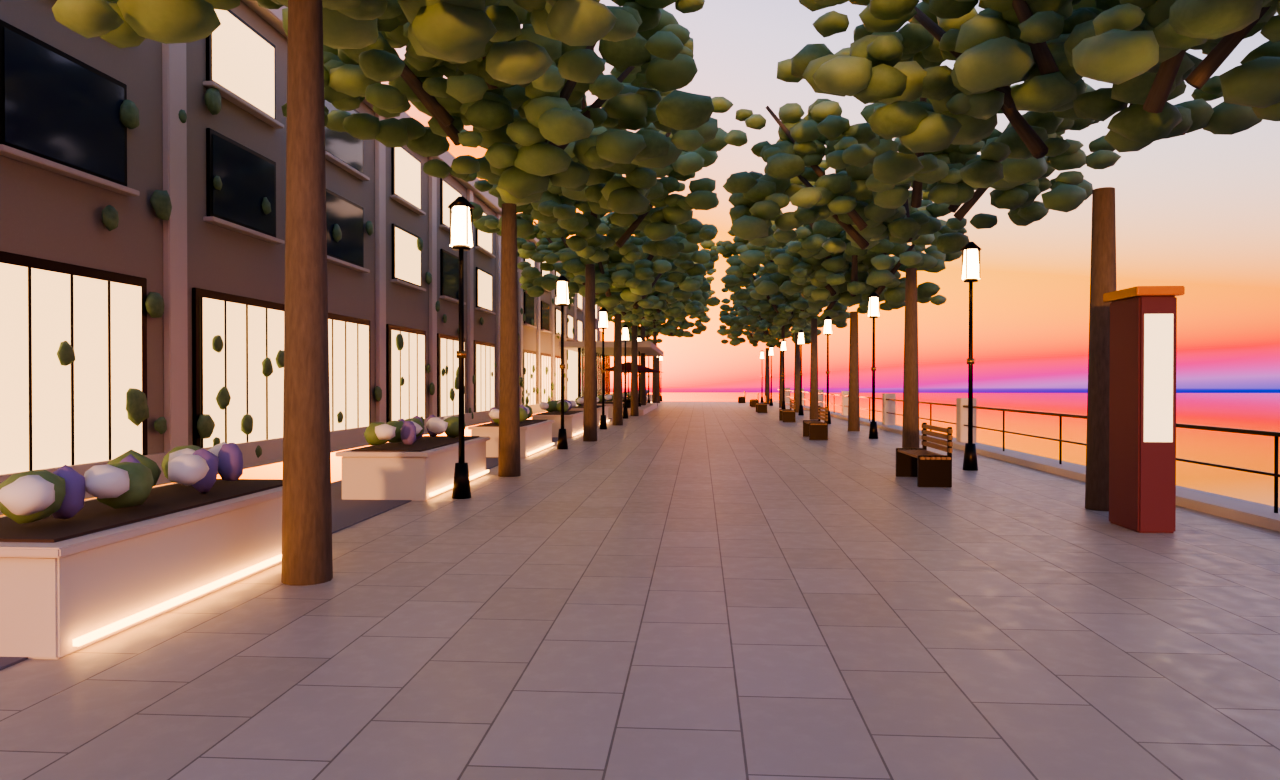
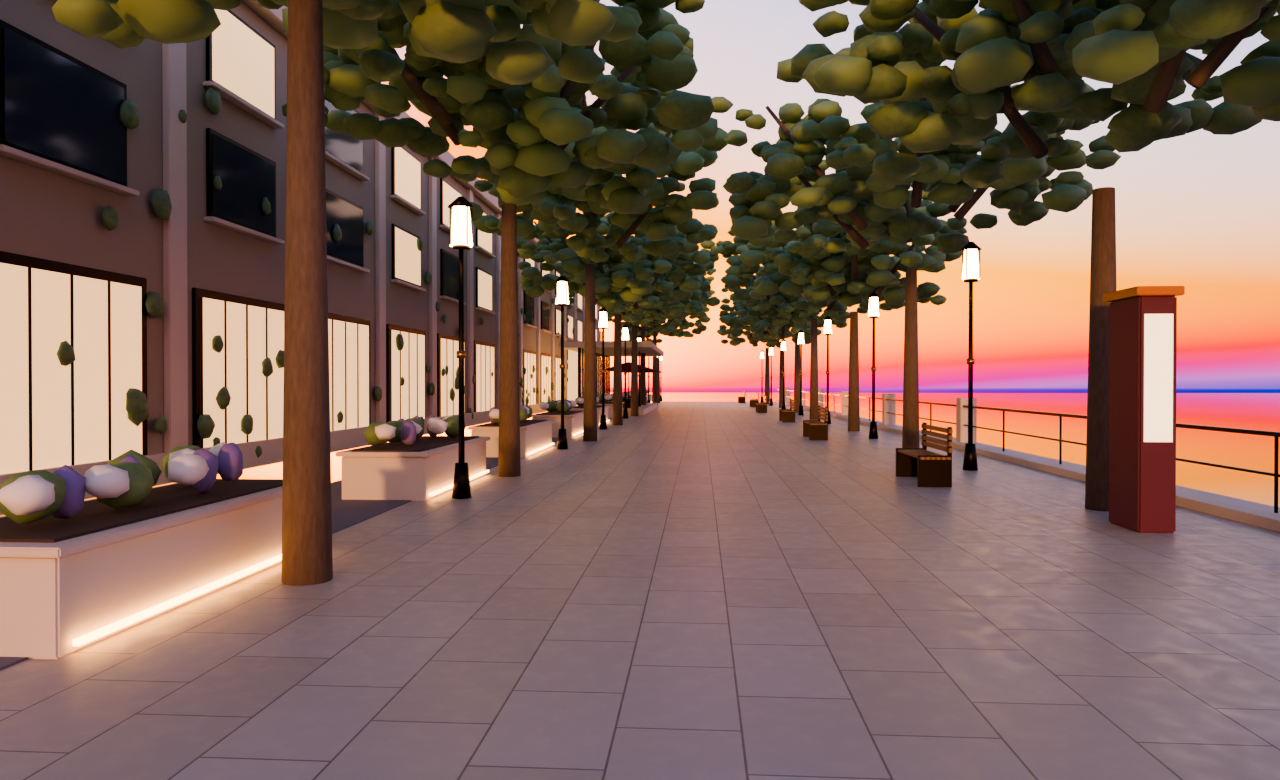
WIP: contact-AO strips raised above ground layers (y 0.07, offset -10); Blender s15 master v4 render
Claude-Session: https://claude.ai/code/session_017ZtboRbFUCo4FCo9fUW3pH

diff --git a/src/street/Street.jsx b/src/street/Street.jsx
@@ -34,7 +34,7 @@ function makeMaterials() {
     slab: std({ map: T.slabTex(), bumpMap: T.slabTex(), bumpScale: 1.2, ...off(1) }), sett: std({ map: T.settTex(), bumpMap: T.settTex(), bumpScale: 2.2, ...off(1) }), road: std({ map: T.asphaltTex(), roughness: 0.96, ...off(1) }), gravel: std({ map: T.gravelTex(), roughness: 1, ...off(1) }),
     slab2: std({ map: T.slabTex(), ...off(2) }), sett2: std({ map: T.settTex(), ...off(2) }), road2: std({ map: T.asphaltTex(), roughness: 0.96, ...off(2) }), gravel2: std({ map: T.gravelTex(), roughness: 1, ...off(2) }),
     paint: std({ roughness: 0.9, ...off(3) }),
-    ao: new THREE.MeshBasicMaterial({ map: T.aoTex(), color: '#000000', transparent: true, opacity: 0.34, depthWrite: false, side: THREE.DoubleSide, polygonOffset: true, polygonOffsetFactor: -4, polygonOffsetUnits: -4 }),
+    ao: new THREE.MeshBasicMaterial({ map: T.aoTex(), color: '#000000', transparent: true, opacity: 0.34, depthWrite: false, side: THREE.DoubleSide, polygonOffset: true, polygonOffsetFactor: -10, polygonOffsetUnits: -10 }),
   }
   for (const k of ['slab', 'sett', 'road', 'gravel', 'slab2', 'sett2', 'road2', 'gravel2', 'grass']) { M[k].map.repeat.set(1, 1) }
   for (const k of ['slab', 'sett', 'road', 'gravel', 'slab2', 'sett2', 'road2', 'gravel2']) applyWet(M[k])       // rain: darker, glossier, puddles

diff --git a/src/street/buildings.js b/src/street/buildings.js
@@ -318,7 +318,7 @@ function shopInterior(ch, F, x0, x1, y0, y1) {
 const W = (F, x, y, z) => [F.x + x * F.c + z * F.s, F.y + y, F.z - x * F.s + z * F.c]
 const dirW = (F) => [F.s, 0, F.c]
 // Baked-style ambient-occlusion contact strip on the ground along a façade/planter base (static, neutral, day/night-safe; Bible/Directive §3). Local z>0 is outward.
-export function aoStrip(ch, F, x0, x1, depth, z0 = 0, y = 0.03) {
+export function aoStrip(ch, F, x0, x1, depth, z0 = 0, y = 0.07) {
   ch.acc('ao').quad(W(F, x0, y, z0), W(F, x1, y, z0), W(F, x1, y, z0 + depth), W(F, x0, y, z0 + depth), col('#000000'), [0, 1, 0], [[0, 1], [1, 1], [1, 0], [0, 0]])
 }
 import { signUV } from './textures.js'
